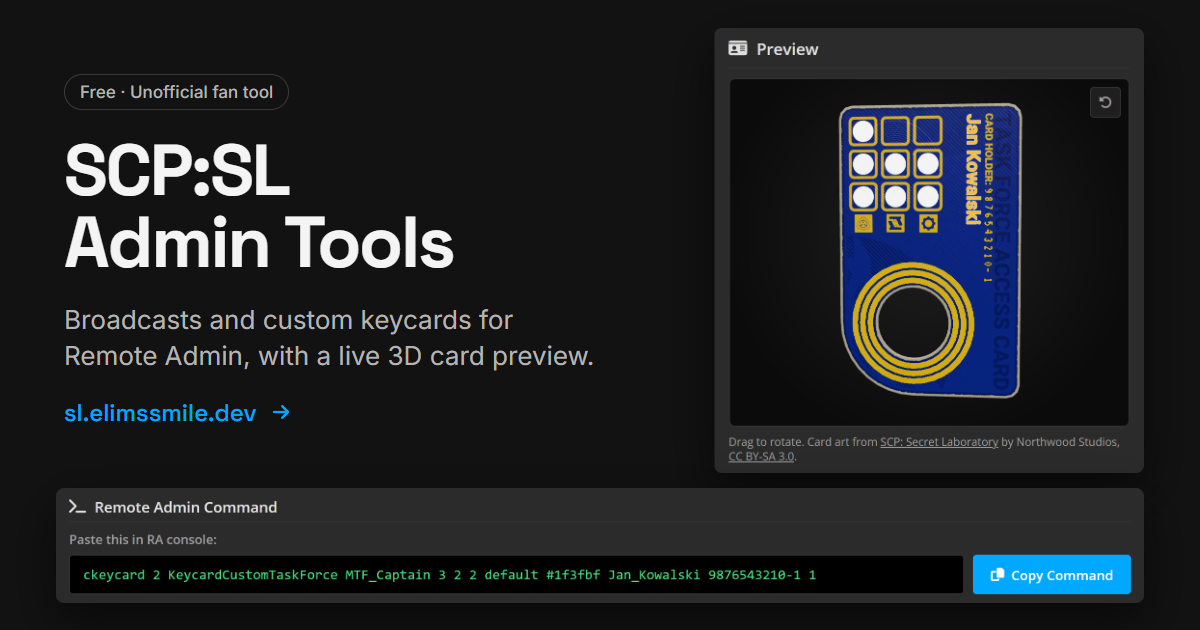
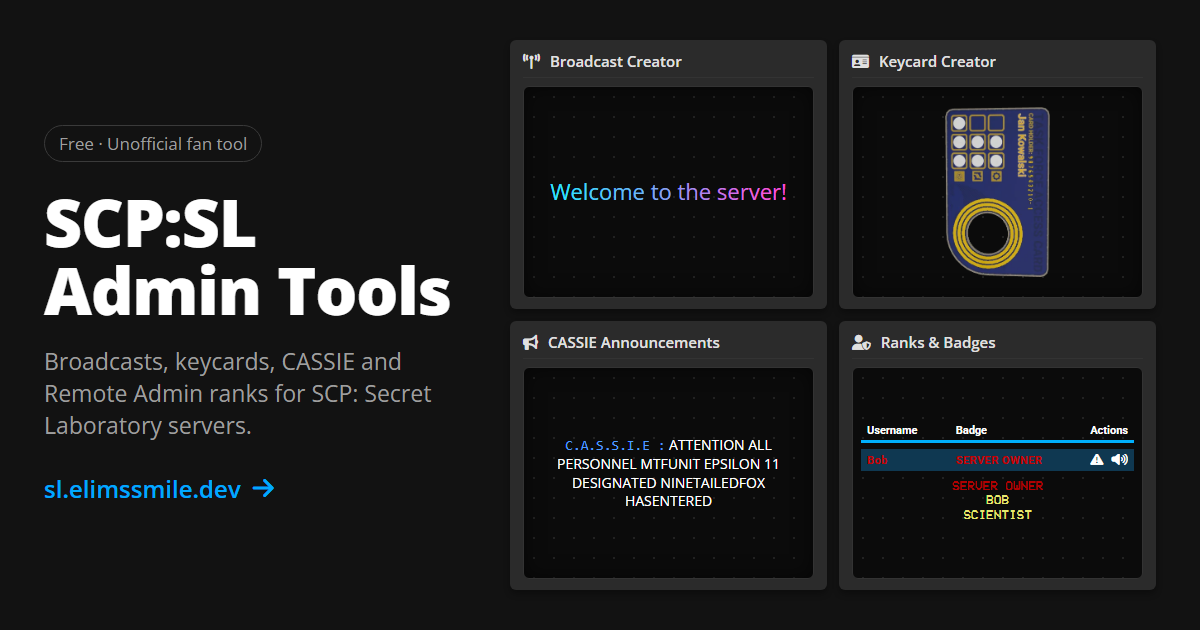
Add homepage, unify preview backgrounds, new OG image

diff --git a/src/index.css b/src/index.css
@@ -67,6 +67,7 @@ body {
     min-width: 200px;
     white-space: nowrap;
     flex-shrink: 0;
+    text-decoration: none;
 }
 
 .topbar-nav {
@@ -562,7 +563,9 @@ input[type="number"].no-spin {
     min-height: 260px;
     border: 1px solid var(--border-color);
     border-radius: 6px;
-    background: radial-gradient(circle at 50% 45%, #1f1f1f 0%, #0b0b0b 75%);
+    background-color: #0b0b0b;
+    background-image: radial-gradient(#222 1px, transparent 1px);
+    background-size: 20px 20px;
     overflow: hidden;
 }
 
@@ -1321,7 +1324,9 @@ input[type="number"].no-spin {
     margin-bottom: 12px;
     border: 1px solid var(--border-color);
     border-radius: 6px;
-    background: radial-gradient(ellipse at 50% 40%, #2a2f2c 0%, #121514 70%, #0b0c0c 100%);
+    background-color: #0b0b0b;
+    background-image: radial-gradient(#222 1px, transparent 1px);
+    background-size: 20px 20px;
 }
 
 .rk-pl {
@@ -1747,5 +1752,131 @@ input[type="number"].no-spin {
 
     .rk-config {
         min-height: 120px;
+    }
+}
+
+
+.home-grid {
+    grid-template-columns: repeat(2, minmax(0, 1fr));
+    grid-template-rows: repeat(2, minmax(0, 1fr));
+}
+
+.home-tile {
+    min-height: 0;
+    margin-bottom: 0;
+    border: 1px solid transparent;
+    color: inherit;
+    text-decoration: none;
+    transition: border-color 0.2s ease;
+}
+
+.home-tile:hover {
+    border-color: rgba(0, 168, 255, 0.45);
+}
+
+.home-open {
+    margin-left: auto;
+    display: flex;
+    align-items: center;
+    gap: 6px;
+    font-size: 0.85rem;
+    color: var(--accent-blue);
+}
+
+.home-open i {
+    transition: transform 0.2s ease;
+}
+
+.home-tile:hover .home-open i {
+    transform: translateX(3px);
+}
+
+.home-preview,
+.home-ranks {
+    flex: 1;
+    min-height: 120px;
+    max-height: none;
+}
+
+.home-broadcast {
+    font-size: 2rem;
+    line-height: 1.15;
+}
+
+.home-cassie {
+    font-size: 1.15rem;
+}
+
+.home-keycard {
+    padding: 10px;
+    background-color: #0b0b0b;
+    background-image: radial-gradient(#222 1px, transparent 1px);
+    background-size: 20px 20px;
+}
+
+.home-keycard img {
+    height: 100%;
+    max-height: 210px;
+    min-height: 0;
+    object-fit: contain;
+}
+
+.home-ranks {
+    display: flex;
+}
+
+.home-ranks .rk-preview {
+    flex: 1;
+    justify-content: center;
+    margin-bottom: 0;
+}
+
+.home-text {
+    margin-top: 10px;
+    color: var(--text-secondary);
+    font-size: 0.85rem;
+}
+
+.home-command {
+    margin-top: 8px;
+    padding: 8px 12px;
+    border-radius: 6px;
+    background-color: #000;
+    color: #4ade80;
+    font-family: monospace;
+    font-size: 0.85rem;
+    white-space: nowrap;
+    overflow: hidden;
+    text-overflow: ellipsis;
+}
+
+@media (max-width: 1100px), (max-height: 860px) {
+    .home-grid {
+        grid-template-rows: none;
+    }
+}
+
+@media (max-width: 850px) {
+    .home-grid {
+        grid-template-columns: minmax(0, 1fr);
+    }
+}
+
+@media (max-width: 1100px), (max-height: 860px) {
+
+    .home-preview,
+    .home-ranks {
+        flex: none;
+        height: 190px;
+    }
+}
+
+@media (max-width: 600px) {
+    .home-broadcast {
+        font-size: 1.4rem;
+    }
+
+    .home-cassie {
+        font-size: 1rem;
     }
 }

diff --git a/src/pages/Home.jsx b/src/pages/Home.jsx
@@ -1,0 +1,83 @@
+import { Link } from 'react-router-dom'
+import { buildRichText, RichTextRuns } from '../components/RichTextEditor.jsx'
+import { BadgePreview } from './RankCreator.jsx'
+import keycard from '../assets/home-keycard.webp'
+
+const broadcast = buildRichText('Welcome to the server!', 'gradient', ['#33E0FF', '#FF4FD8'])
+const rank = { key: 'owner', badge: 'SERVER OWNER', color: 'red', cover: true, hidden: false }
+
+const TOOLS = [
+  {
+    path: '/broadcast',
+    icon: 'fa-tower-broadcast',
+    title: 'Broadcast Creator',
+    text: 'Gradient and rich-text broadcasts with a live preview.',
+    command: `bc 10 ${broadcast.text}`,
+    preview: (
+      <div className="preview-box home-preview">
+        <div className="home-broadcast"><RichTextRuns runs={broadcast.preview} /></div>
+      </div>
+    ),
+  },
+  {
+    path: '/keycard',
+    icon: 'fa-id-card',
+    title: 'Keycard Creator',
+    text: 'Custom keycards with a 3D preview of the card.',
+    command: 'ckeycard 1 KeycardCustomTaskForce Custom_Keycard 3 2 2 default #1f3fbf Jan_Kowalski 9876543210-1 1',
+    preview: (
+      <div className="preview-box home-preview home-keycard">
+        <img src={keycard} alt="Custom Task Force keycard" />
+      </div>
+    ),
+  },
+  {
+    path: '/cassie',
+    icon: 'fa-bullhorn',
+    title: 'CASSIE Announcements',
+    text: 'Announcements with custom subtitles, the real voice lines and WAV export.',
+    command: 'cassie ATTENTION ALL PERSONNEL . MTFUNIT EPSILON 11 DESIGNATED NINETAILEDFOX HASENTERED',
+    preview: (
+      <div className="preview-box home-preview">
+        <div className="cassie-subtitle home-cassie">
+          <span className="cassie-subtitle-prefix">C.A.S.S.I.E :</span> ATTENTION ALL PERSONNEL MTFUNIT EPSILON 11 DESIGNATED NINETAILEDFOX HASENTERED
+        </div>
+      </div>
+    ),
+  },
+  {
+    path: '/ranks',
+    icon: 'fa-user-shield',
+    title: 'Ranks & Badges',
+    text: 'Ranks, badge colors, permissions and staff for config_remoteadmin.txt.',
+    command: 'owner_badge: SERVER OWNER',
+    preview: <div className="home-ranks"><BadgePreview rank={rank} /></div>,
+  },
+]
+
+export default function Home() {
+  return (
+    <div className="content-wrapper">
+      <div className="card header-card" style={{ flexShrink: 0, marginBottom: 0, padding: '10px' }}>
+        <h2 style={{ marginBottom: 2, fontSize: '1.2rem' }}>SCP:SL Admin Tools</h2>
+        <p style={{ fontSize: '0.85rem', marginBottom: 0 }}>
+          Free tools for SCP: Secret Laboratory server admins. Pick one to start.
+        </p>
+      </div>
+
+      <div className="grid-container home-grid">
+        {TOOLS.map(t => (
+          <Link key={t.path} to={t.path} className="card home-tile">
+            <h3>
+              <i className={`fa-solid ${t.icon}`}></i> {t.title}
+              <span className="home-open">Open <i className="fa-solid fa-arrow-right"></i></span>
+            </h3>
+            {t.preview}
+            <p className="home-text">{t.text}</p>
+            <div className="home-command">{t.command}</div>
+          </Link>
+        ))}
+      </div>
+    </div>
+  )
+}

diff --git a/src/components/Topbar.jsx b/src/components/Topbar.jsx
@@ -1,19 +1,17 @@
 import { useState, useEffect } from 'react'
-import { NavLink, useLocation } from 'react-router-dom'
+import { Link, NavLink, useLocation } from 'react-router-dom'
 
 const NAV_LINKS = [
   { path: '/broadcast', label: 'Broadcast Creator', icon: 'fa-tower-broadcast' },
   { path: '/keycard', label: 'Keycard Creator', icon: 'fa-id-card' },
   { path: '/cassie', label: 'CASSIE', icon: 'fa-bullhorn' },
   { path: '/ranks', label: 'Ranks & Badges', icon: 'fa-user-shield' },
-  // Future tools can be added here
 ]
 
 export default function Topbar() {
   const [isOpen, setIsOpen] = useState(false)
   const location = useLocation()
 
-  // Close menu on route change
   useEffect(() => {
     setIsOpen(false)
   }, [location])
@@ -23,10 +21,10 @@ export default function Topbar() {
 
   return (
     <header className="topbar">
-      <div className="topbar-left">
+      <Link to="/" className="topbar-left">
         <i className="fa-solid fa-server"></i>
         <span>SCP:SL Admin Tools</span>
-      </div>
+      </Link>
 
       <nav className="topbar-nav">
         {visibleLinks.map(link => (

diff --git a/index.html b/index.html
@@ -15,9 +15,10 @@
     <meta property="og:image" content="https://sl.elimssmile.dev/og.png" />
     <meta property="og:image:width" content="1200" />
     <meta property="og:image:height" content="630" />
-    <meta property="og:image:alt" content="SCP:SL Admin Tools: Keycard Creator with a 3D preview of a Task Force keycard" />
+    <meta property="og:image:alt" content="SCP:SL Admin Tools: Broadcast Creator, Keycard Creator, CASSIE Announcements and Ranks &amp; Badges" />
     <meta name="twitter:card" content="summary_large_image" />
     <link rel="canonical" href="https://sl.elimssmile.dev/" />
+    <script type="application/ld+json">{"@context":"https://schema.org","@type":"WebSite","name":"SCP:SL Admin Tools","alternateName":"SL Admin Tools","url":"https://sl.elimssmile.dev/"}</script>
     <link href="https://fonts.googleapis.com/css2?family=Open+Sans:wght@400;600;700&family=Roboto:wght@700&display=swap" rel="stylesheet" />
     <link rel="stylesheet" href="https://cdnjs.cloudflare.com/ajax/libs/font-awesome/6.4.0/css/all.min.css" />
   </head>

diff --git a/src/App.jsx b/src/App.jsx
@@ -1,5 +1,6 @@
 import { useEffect } from 'react'
 import { Routes, Route, Navigate, useLocation } from 'react-router-dom'
+import Home from './pages/Home.jsx'
 import Topbar from './components/Topbar.jsx'
 import BroadcastCreator from './pages/BroadcastCreator.jsx'
 import KeycardCreator from './pages/KeycardCreator.jsx'
@@ -17,7 +18,8 @@ export default function App() {
     <div className="main-content">
       <Topbar />
       <Routes>
-        <Route path="/" element={<Navigate to="/broadcast" replace />} />
+        <Route path="/" element={<Home />} />
+        <Route path="*" element={<Navigate to="/" replace />} />
         <Route path="/broadcast" element={<BroadcastCreator key={search} />} />
         <Route path="/keycard" element={<KeycardCreator key={search} />} />
         <Route path="/cassie" element={<CassieCreator key={search} />} />

diff --git a/src/pages/RankCreator.jsx b/src/pages/RankCreator.jsx
@@ -64,7 +64,7 @@ function visibleBadge(rank) {
   return { text, hex: COLOR_HEX[rank.color] ?? '#FFFFFF' }
 }
 
-function BadgePreview({ rank }) {
+export function BadgePreview({ rank }) {
   const [shown, setShown] = useState(false)
   const badge = visibleBadge(rank)
   const visible = badge && (!rank.hidden || shown)
